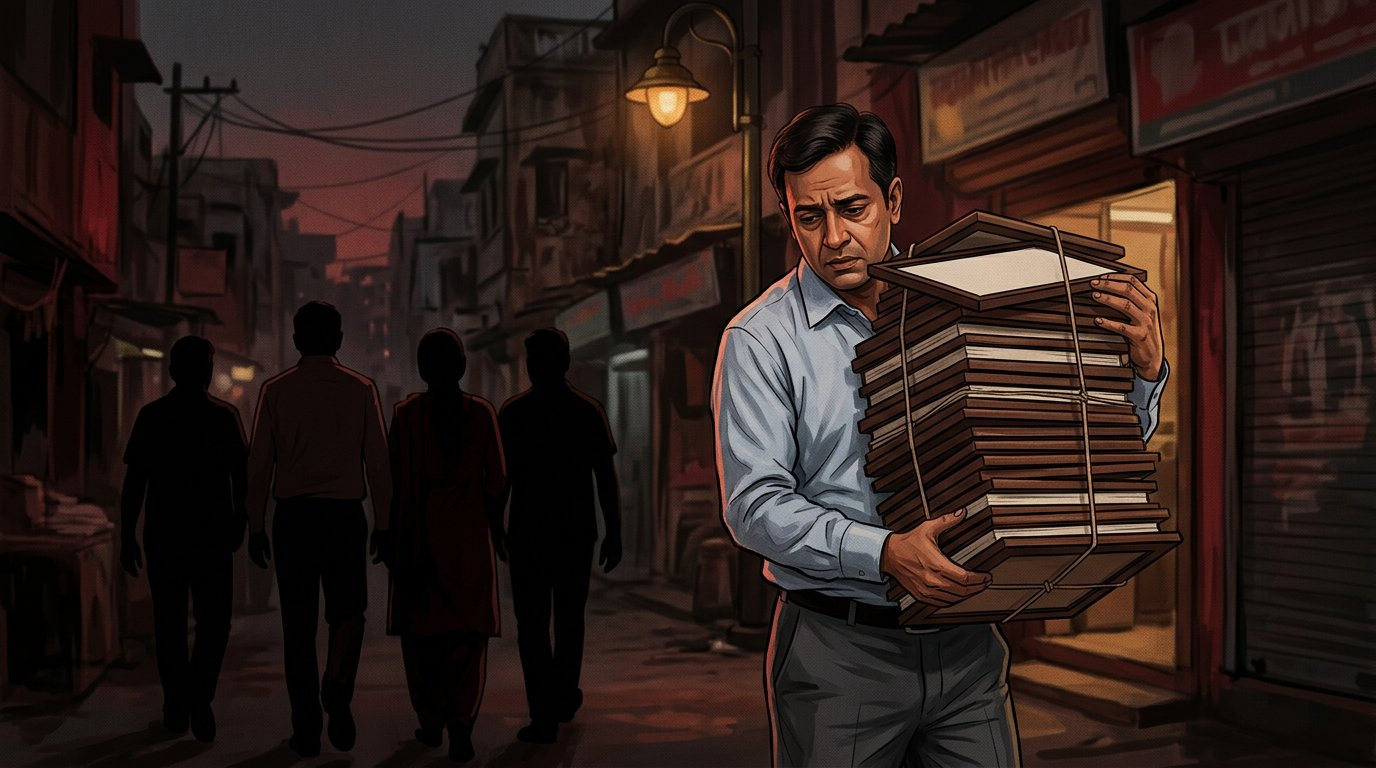
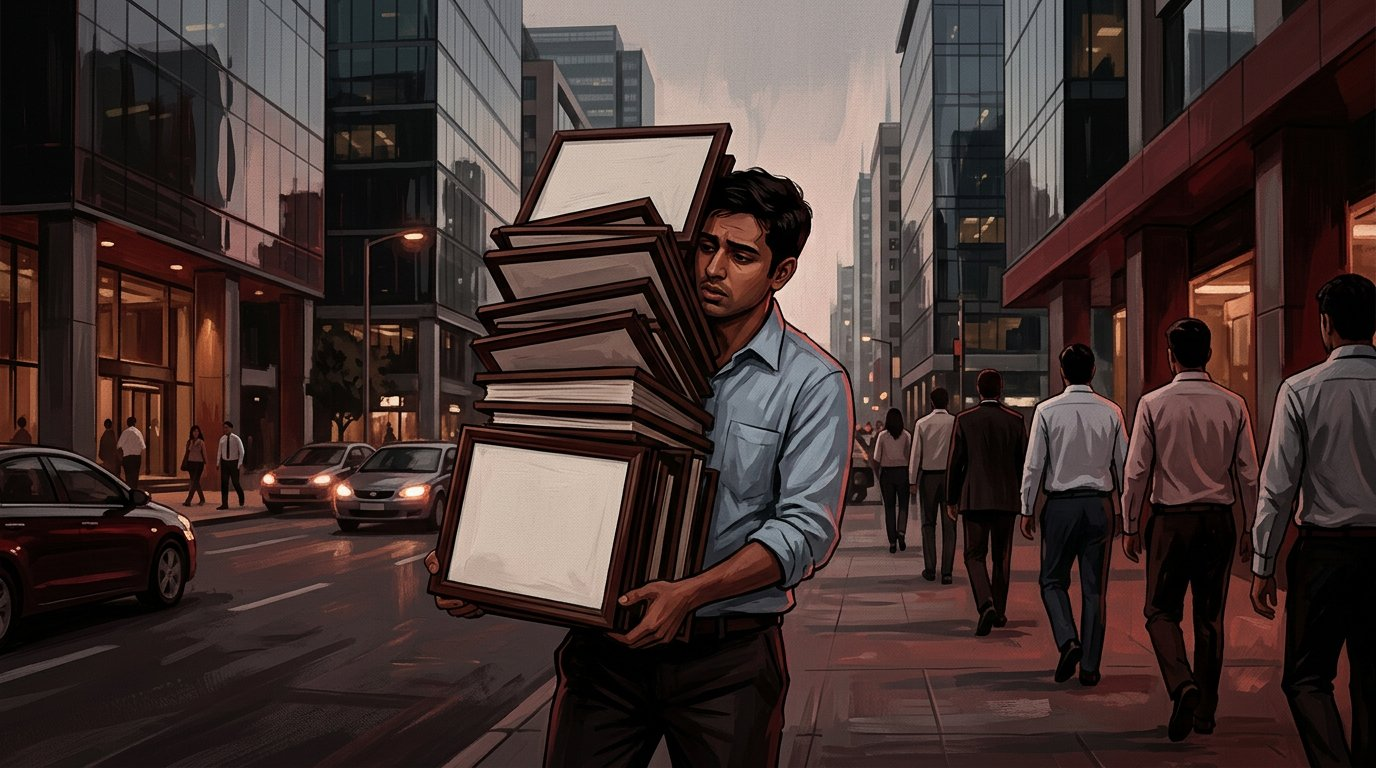
TV9 visual policy: modern urban default — regenerated 7 rural-skewed images (cues 2,4,5,6,7,10,25), pack descs synced, pack 4 start (cues 29-31); historical look kept only where narrated

diff --git a/scripts/gen_tv9_prompts.py b/scripts/gen_tv9_prompts.py
@@ -57,15 +57,15 @@ HOST_PLATE = (
 # + metaphor (where abstract) + camera. The locked style phrase is appended by the builder.
 SCENES = {
     1: ("host", "medium shot, @Host in the Thinker's Study in the STILL pose, oxblood mantle over his shoulders, brass lamp casting warm light on the dark wooden desk, facing the viewer with a calm assessing gaze as the lesson opens"),
-    2: ("scene", "wide shot, a calm Indian man seated at a small table with hands folded while three dark paper darts lie stopped and fallen at his feet, MIDDLE CLASS / HOME, not every provocation deserves a reply, warm lamp light"),
+    2: ("scene", "wide shot, a calm Indian man in a modern city apartment living room with contemporary furniture and a glass balcony door, seated at a contemporary dining table with hands folded while three dark paper darts lie stopped and fallen at his feet, MIDDLE CLASS / HOME modern interior, not every provocation deserves a reply, warm lamp light"),
     3: ("scene", "close-up, a baited fishing hook drifting past a man's still folded hands on a dark wooden table, untouched, one controlled light source, restraint as a chosen act"),
-    4: ("scene", "medium shot, a man straining under a tall stack of blank framed certificates while a row of faceless silhouettes has already turned away, CITY street at dusk, the exhausting work of proving himself"),
-    5: ("scene", "wide shot, a lone man on a quiet street as faceless passers-by point at him from both sides, two of them holding cracked hand mirrors, MIDDLE CLASS / HOME tier street, being misunderstood"),
-    6: ("scene", "medium shot, a faceless figure mid-gesture of harsh criticism across a dim table while the seated man does not turn his head, TOWN / BAZAAR shuttered lane behind"),
-    7: ("scene", "object close-up, a steel measuring tape unspooled and deliberately tangled at a worker's feet while a shadowy figure points at the tangle, RURAL / FARM / WORKSHOP, questioned capability"),
+    4: ("scene", "medium shot, a young Indian professional in a shirt straining under a tall stack of blank framed certificates on a modern office-district street with glass towers and cars at dusk, a row of faceless colleagues in contemporary office wear already turned away, the exhausting work of proving himself"),
+    5: ("scene", "wide shot, a lone young Indian man on a modern city street with glass shopfronts and evening traffic as faceless passers-by in contemporary clothes point at him from both sides, two of them holding cracked hand mirrors, being misunderstood"),
+    6: ("scene", "medium shot, a faceless colleague mid-gesture of harsh criticism across a modern office cafeteria table with glass partitions and a closed laptop while the seated man in a shirt does not turn his head"),
+    7: ("scene", "object close-up, a steel measuring tape unspooled and deliberately tangled at a young professional's polished shoes on a modern open-plan office floor while a shadowy figure points at the tangle, questioned capability"),
     8: ("scene", "close-up, one hand deliberately sliding a hot coal across a dark table toward another hand, a trap of provocation, deep shadow, single lamp"),
     9: ("host", "medium shot, @Host in the Thinker's Study in the STILL pose, oxblood mantle draped over his shoulders, jaw set, the decision to change a habit held in his stillness"),
-    10: ("scene", "object close-up, an old television remote being gently withdrawn from an outstretched stranger's open palm by its owner's calm hand, dark room, buttons abstract shapes, emotional control returning home"),
+    10: ("scene", "object close-up, a television remote being gently withdrawn from an outstretched stranger's open palm by its owner's calm hand in a modern living room with a contemporary sofa and blank-screen television behind, buttons abstract shapes, emotional control returning home"),
     11: ("scene", "split-frame, left a man shouting across a small table, right the same man gripping the table edge and exhaling slowly, MIDDLE CLASS / HOME, anger triggered then refused"),
     12: ("scene", "medium shot, a man lying awake under a slowly turning ceiling fan while a thin dark loop of smoke replays the same insult above him, MIDDLE CLASS / HOME bedroom at night"),
     13: ("scene", "wide shot, a man at a work desk turned fully around in his chair to stare at the door a silhouette just left through, his own work gone dark, INSTITUTION office"),
@@ -80,7 +80,7 @@ SCENES = {
     22: ("scene", "object close-up, a small charkha at rest in a quiet room beside one candle and a wall clock face with no numerals, weekly silence kept as practice"),
     23: ("scene", "wide shot, a vast painted ancient Indian assembly hall, a lone woman's upright silhouette among rows of seated elders, two dice on the stone floor, a question of justice"),
     24: ("scene", "medium shot, the four symbolic objects gathered on one dark table under a warm lamp, scroll, lamp, charkha and scale, one clear lesson condensing"),
-    25: ("scene", "split-frame, left a man silent beside a cracked boundary wall, right the same man standing and speaking firmly at an office table, silence not always the answer"),
+    25: ("scene", "split-frame, left a man in a shirt standing silent on a modern apartment balcony at night, right the same man standing and speaking firmly at a modern office table with a laptop, silence not always the answer"),
     26: ("scene", "wide shot, a man pausing beneath a three-way stone archway, one path gated, one path with a listening well, one path with a raised speaking stone, when to stop listen and speak"),
     27: ("host", "medium shot, @Host seated at the Thinker's Study desk in the STUDY pose, hands folded on the desk, oxblood mantle over his shoulders, introducing himself directly to the viewer"),
     28: ("host", "medium shot, @Host in the Thinker's Study in the STUDY pose, brass lamp and dark map behind him, speaking calmly of human behaviour power and society"),
@@ -93,7 +93,7 @@ SCENES = {
     35: ("host", "medium shot, @Host in the Thinker's Study in the STUDY pose, leaning slightly forward into lamplight, telling the viewer to listen closely"),
     36: ("scene", "medium shot, a man facing a glass shadow-box inside which a smaller copy of himself lunges and snarls, the first fight is the habit within"),
     37: ("scene", "object close-up, the shadow-box lid pressing shut as the lunging copy strains against the glass, the habit locked under observation"),
-    38: ("scene", "two-shot, a faceless man in a doorway pointing down at a seated worker with his tools on the floor, TOWN / BAZAAR lane, the words you cannot do this"),
+    38: ("scene", "two-shot, a faceless man in a modern office doorway pointing down at a seated young professional at his desk, the words you cannot do this"),
     39: ("scene", "close-up, the seated worker's mouth half-open to answer, one hand half-raised with a ready reply, restrained"),
     40: ("scene", "medium shot, a man lifting one blank trophy after another onto a high shelf toward an uninterested silhouette walking away, proving himself endlessly"),
     41: ("scene", "close-up, one jabbing finger pressed forward at a long shadow on a plaster wall, the argument sharpening"),
@@ -115,7 +115,7 @@ SCENES = {
     57: ("scene", "close-up, a carved piece held above the chessboard while the rival's reply position already waits one move ahead, consequences weighed before the step"),
     58: ("scene", "medium shot, the same strategy board now sitting on a modern office desk beside a closed laptop, ancient strategic thinking applied to today"),
     59: ("scene", "two-shot, a colleague leaning across a cubicle table with a pointed finger while the other man's hands stay still on the desk, INSTITUTION office provocation"),
-    60: ("scene", "two-shot across a shop counter, a buyer slamming his palm down while the shopkeeper's pen hovers over an unsigned blank pad, TOWN / BAZAAR, pressure for a rushed decision"),
+    60: ("scene", "two-shot across a modern retail store counter, a buyer slamming his palm down while the young shop manager's pen hovers over an unsigned blank pad, pressure for a rushed decision"),
     61: ("scene", "close-up, one hand yanking another into a handshake over a blank page while a small sandglass runs empty beside it, forced promises under conversation pressure"),
     62: ("host", "medium shot, @Host in the Thinker's Study in the STILL pose, unhurried, making clear that instant reaction is rarely required"),
     63: ("scene", "close-up, a magnifying glass held over a cluttered desk scene, first understand the situation"),
@@ -297,7 +297,7 @@ SCENES = {
     239: ("scene", "close-up, a boot stepping onto the first plank of the unfinished bridge, the first step taken"),
     240: ("scene", "close-up, the man kneeling to inspect a bridge joint honestly under lamplight, the real state of the work examined"),
     241: ("scene", "split-frame, left a boy announcing a study timetable to a mirror, right the same boy's open book at night with real pages turned, announcing exam prep against daily study"),
-    242: ("scene", "split-frame, left a man pitching a shop plan at a tea stall, right the same man kneeling to hear a real customer's problem at the counter, announcing a business against serving the first customer"),
+    242: ("scene", "split-frame, left a man pitching a business plan at a modern cafe table, right the same man kneeling to hear a real customer's problem at a modern store counter, announcing a business against serving the first customer"),
     243: ("scene", "split-frame, left a man declaring change at a dinner table, right the same man alone at dawn breaking one old habit, speaking of change against working on it"),
     244: ("host", "medium shot, @Host in the Thinker's Study in the STUDY pose, warning that intention is not achievement"),
     245: ("scene", "object close-up, a single laid brick with a palace's grand shadow projected on the wall above it, a beginning mistaken for completion"),
@@ -446,6 +446,7 @@ def main():
         "label_range": [f"#{cues[0]['label']}", f"#{cues[-1]['label']}"],
         "collisions": collisions,
         "style_version": "V7",
+        "visual_policy": "modern urban Indian default (offices, city streets, apartments, phones/laptops); traditional or historical look only where the narration mandates it (Gandhi/charkha, Draupadi assembly, Vivekananda, history beats)",
         "host_cues": host_cues,
         "labels": [f"#{c['label']}" for c in cues],
     }
